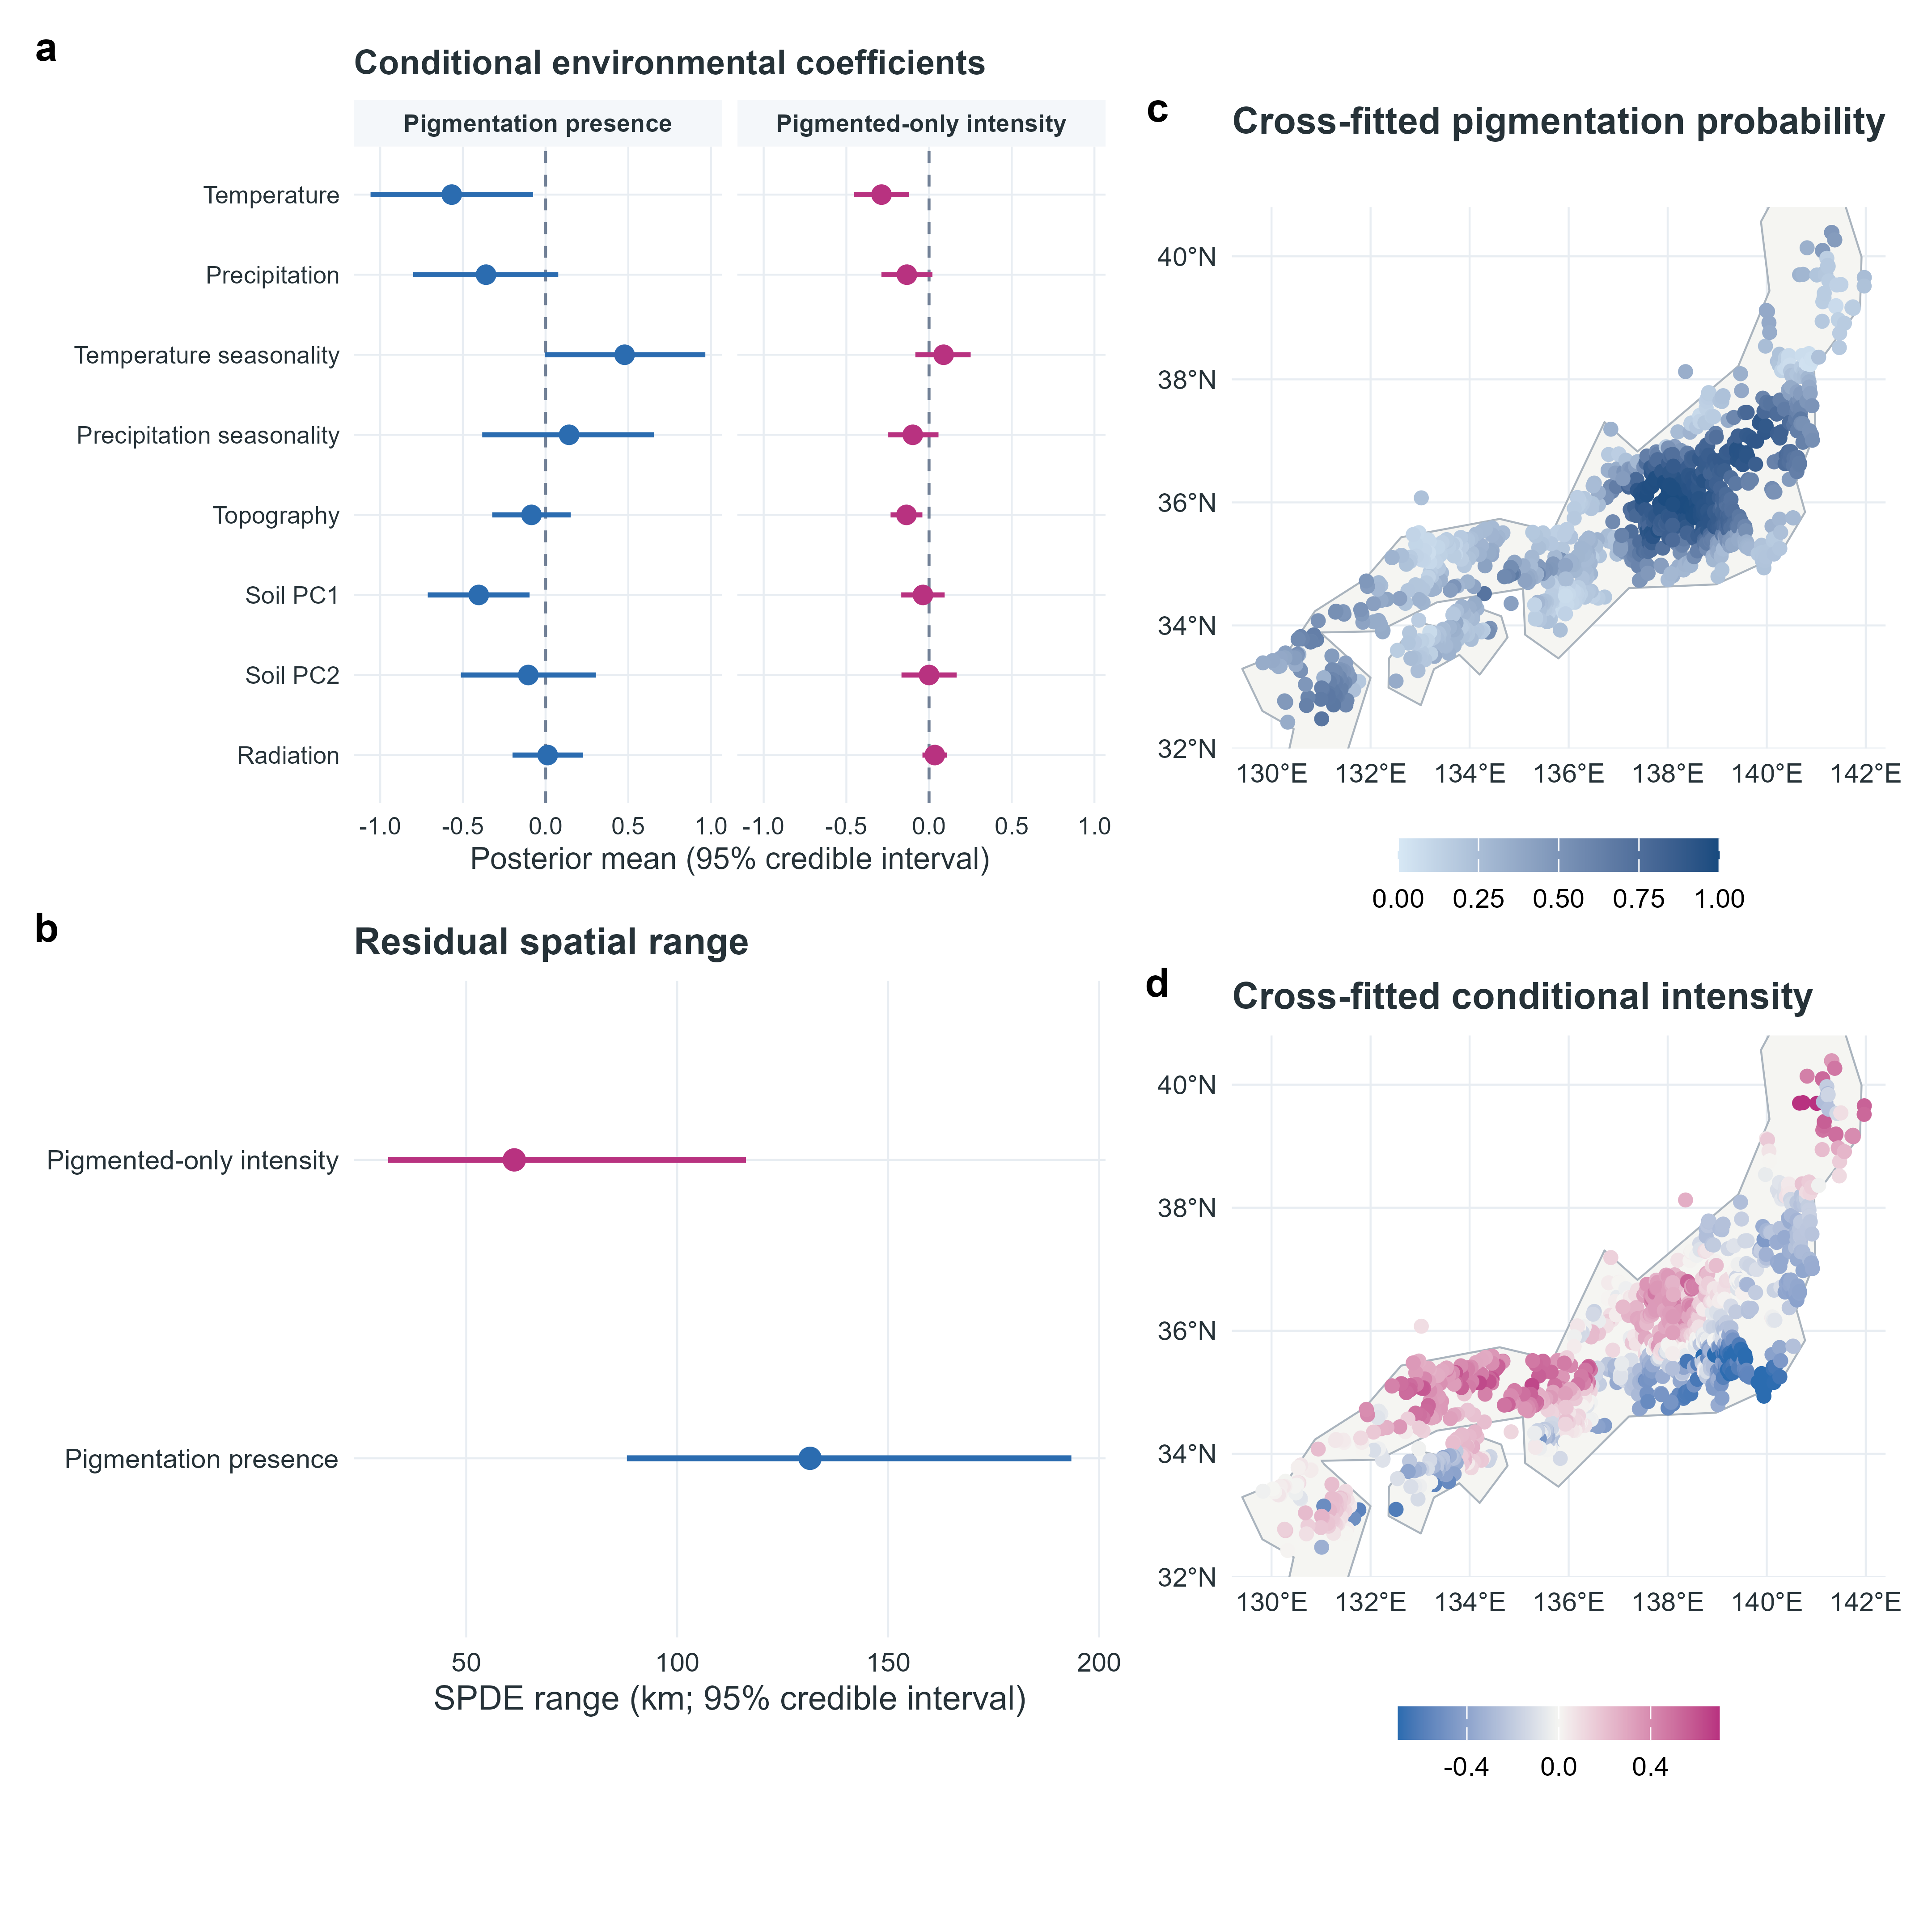
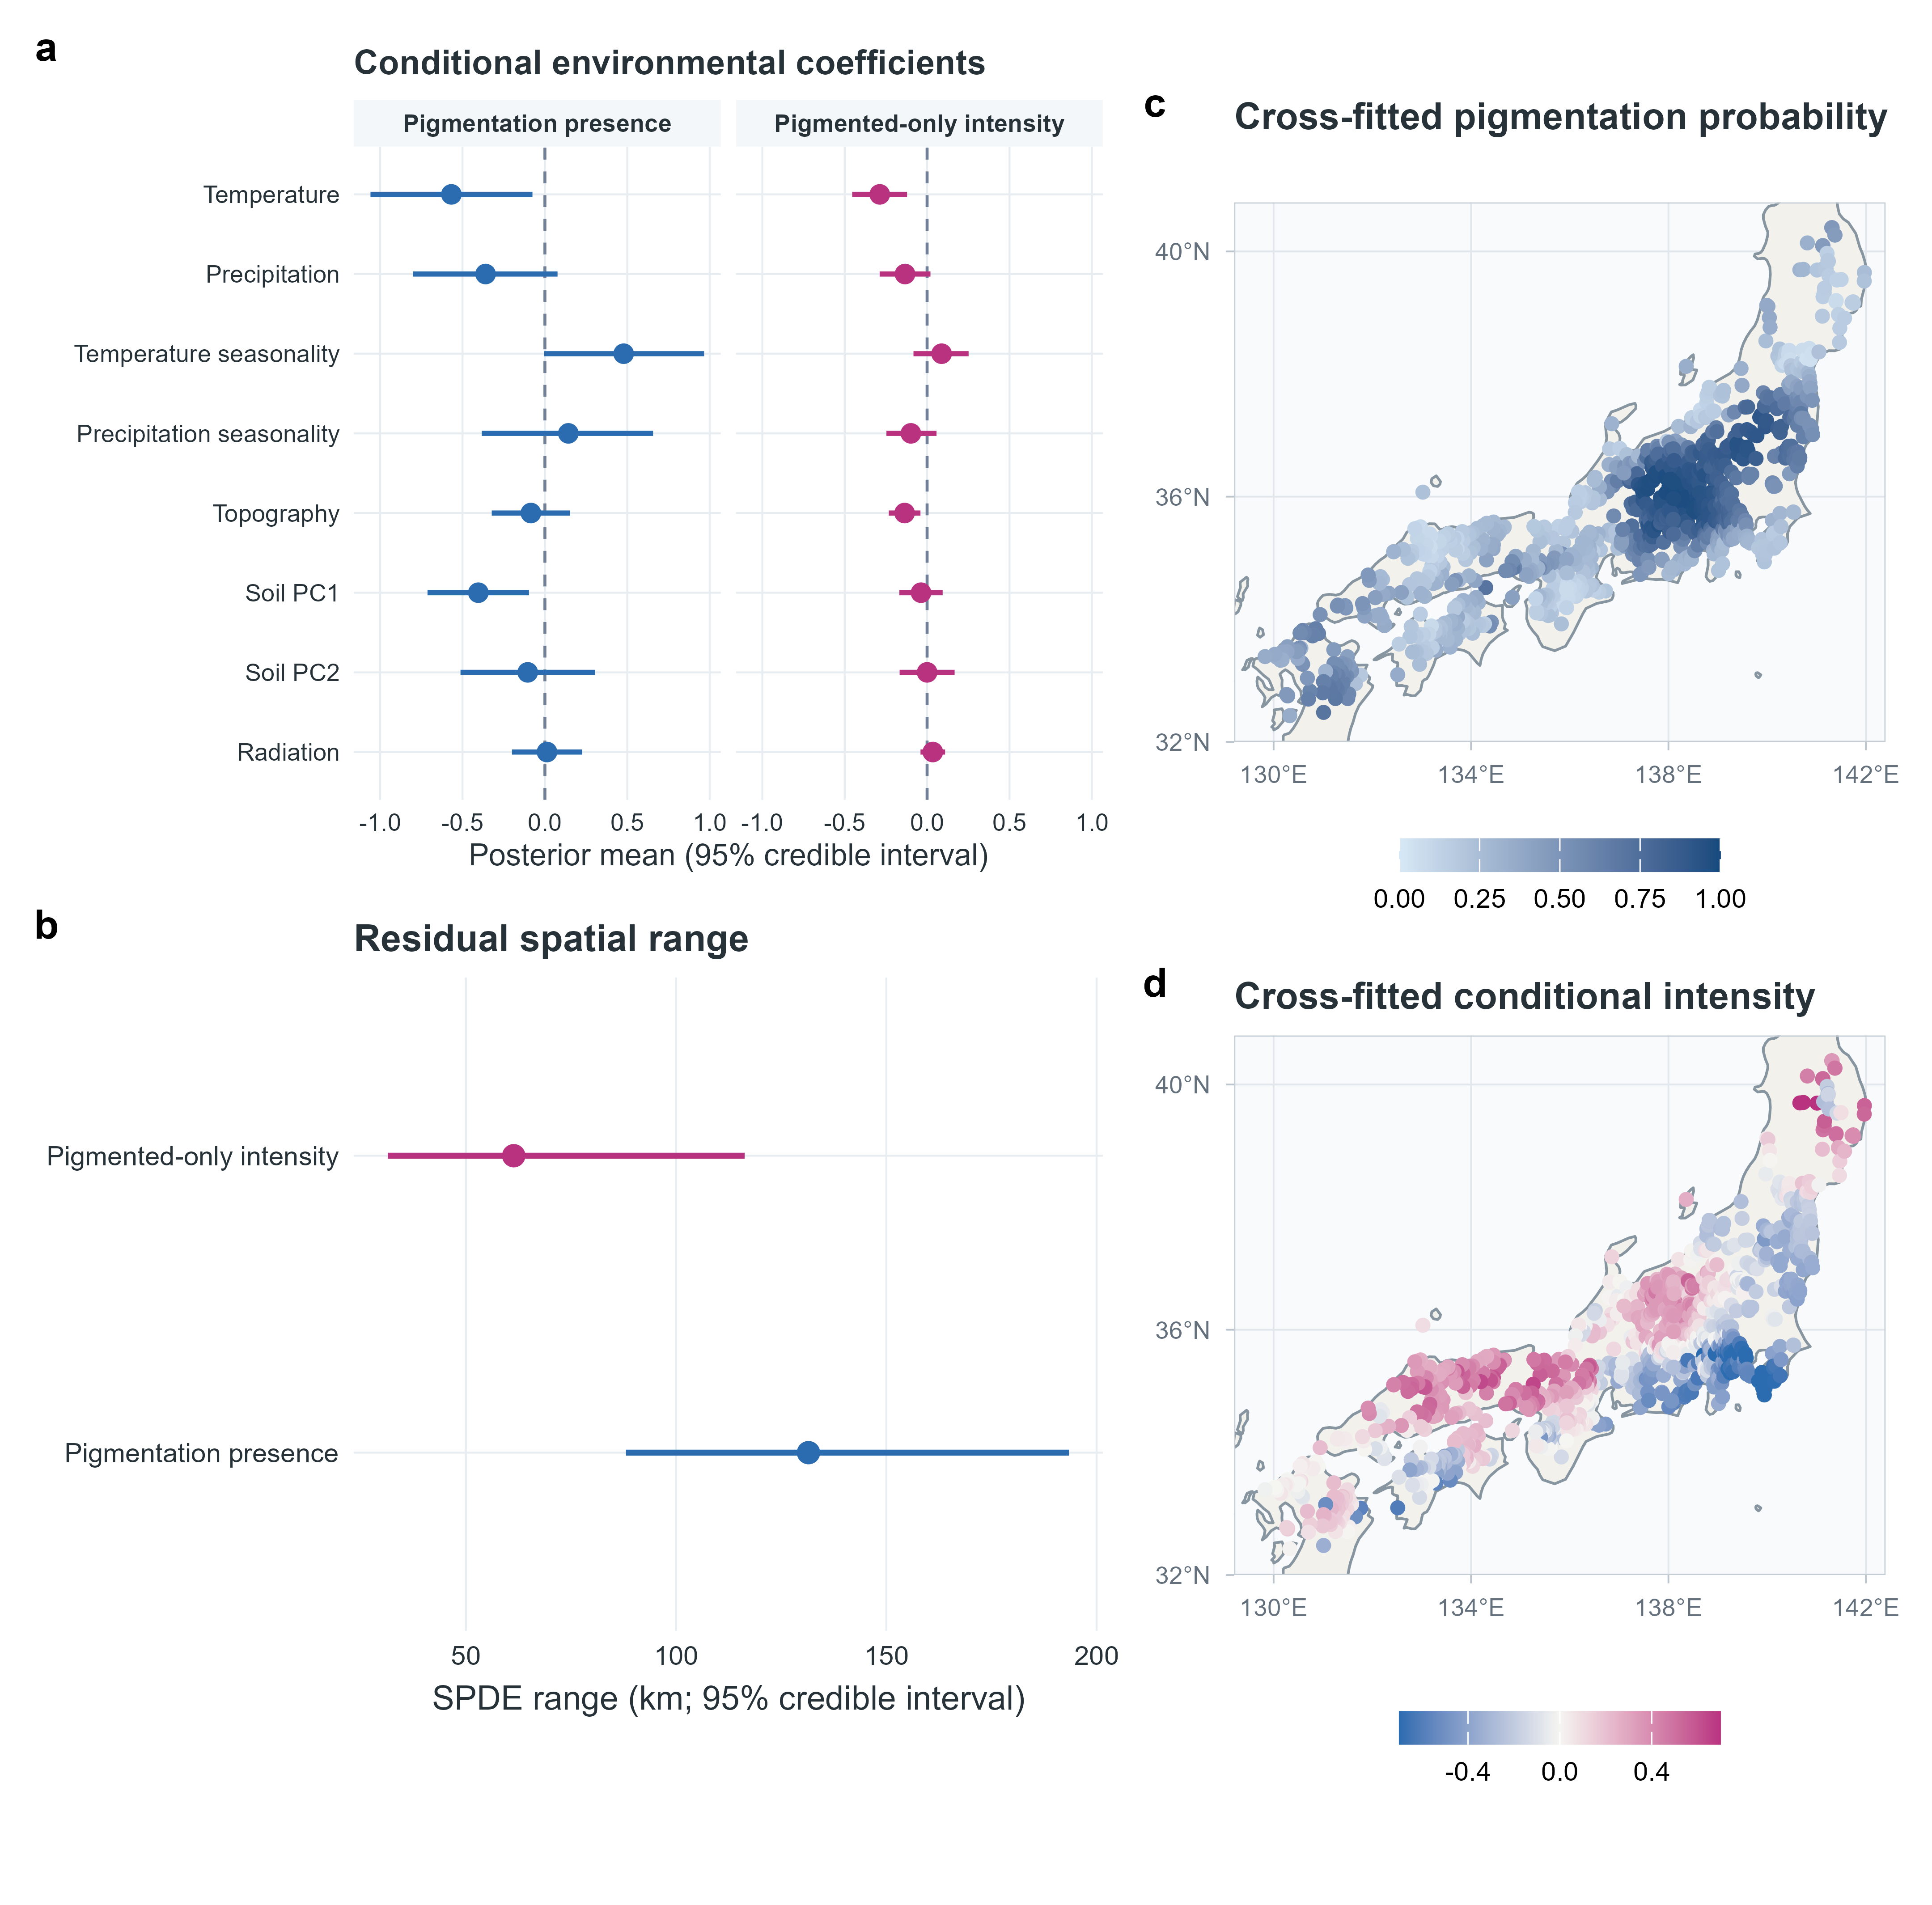
Refine Japan maps and plan supporting information

diff --git a/scripts/build_manuscript_docx.py b/scripts/build_manuscript_docx.py
@@ -30,10 +30,11 @@ FIGURE_FILES = {
 }
 FIGURE_ALT_TEXT = {
     1: (
-        "Four-panel figure showing a national map filled with each "
-        "observation's extracted median sRGB colour, the CIELAB a-star "
-        "mixture boundary, national white-like and pigmented records, and "
-        "pigmented-only conditional intensity."
+        "Four-panel figure showing three common-extent maps of Japan, "
+        "including Hokkaido: a map filled with each observation's extracted "
+        "median sRGB colour, national white-like and pigmented records, and "
+        "pigmented-only conditional intensity; the fourth panel shows the "
+        "CIELAB a-star mixture boundary."
     ),
     2: (
         "Four-panel figure showing environmental posterior coefficients, "
@@ -92,7 +93,7 @@ def add_hyperlink(paragraph, text: str, url: str):
 
 
 INLINE_TOKEN = re.compile(
-    r"(\*\*.+?\*\*|\*.+?\*|`.+?`|https?://\S+)",
+    r"(\*\*.+?\*\*|(?<!\w)\*(?!\*)[^*\n]+?\*(?!\*)|`.+?`|https?://\S+)",
     flags=re.DOTALL,
 )
 
@@ -206,6 +207,16 @@ def configure_styles(document: Document) -> None:
         style.paragraph_format.space_after = Pt(6)
         if name != "Title":
             style.paragraph_format.line_spacing_rule = WD_LINE_SPACING.SINGLE
+
+    caption = document.styles["Caption"]
+    caption.font.name = "Times New Roman"
+    caption._element.rPr.rFonts.set(qn("w:eastAsia"), "Times New Roman")
+    caption.font.size = Pt(10)
+    caption.font.bold = False
+    caption.font.italic = False
+    caption.font.color.rgb = RGBColor(0, 0, 0)
+    caption.paragraph_format.line_spacing_rule = WD_LINE_SPACING.SINGLE
+    caption.paragraph_format.space_after = Pt(6)
 
 
 def parse_table(lines: list[str]) -> list[list[str]]:

diff --git a/manuscript/supporting-information-plan.md b/manuscript/supporting-information-plan.md
@@ -1,0 +1,191 @@
+# Supporting Information plan
+
+## Submission unit
+
+Prepare one self-contained **Supporting Information S1** file containing the
+extended methods, Tables S1-S12, and Figures S1-S9 below. Number supplementary
+items independently from the main article. Publish analysis-ready derived data
+and code in the DOI-archived repository rather than duplicating the full
+machine-readable release inside the Supporting Information file.
+
+The Supplement should support audit and sensitivity assessment. It should not
+carry stronger biological claims than the main text. In particular, predicted
+*Bombus* suitability is not abundance or visitation, and the human-context
+analyses do not establish horticultural origin, escape, introgression, or
+genetic contamination.
+
+## Extended Methods
+
+### Appendix S1 | YAMAP sampling frame and manual screening
+
+- State that the frame was all eligible YAMAP hiking-activity records from
+  1 June through 31 August in 2023, 2024, and 2025.
+- Document manual confirmation of the extracted subject and petal region,
+  duplicate-individual removal, and taxonomic-error removal, including
+  *Adenophora triphylla* records misidentified as *Campanula punctata*.
+- Explain that the retained occurrences are route-linked hiking observations,
+  not an areally balanced vegetation survey.
+- Do not reconstruct exclusion counts that were not retained.
+
+### Appendix S2 | Supervised colour extraction and optical phenotype
+
+- Give the deterministic image-decoding, alpha/HSV candidate-pixel, channel-
+  wise median RGB, and D65 CIELAB conversion steps.
+- State that author-confirmed dark observations and warning-flagged cases were
+  retained in the primary data; only non-formable measurements and exact image
+  duplicates were programmatic exclusions.
+- Describe the response-blind Gaussian-mixture boundary, classification
+  confidence flag, and the two-part response: pigmentation presence for all
+  observations and standardized a* only among pigmented observations.
+- Reiterate that white-flower a* was not analysed as pigment quantity and that
+  uncalibrated sRGB is neither anthocyanin concentration nor pollinator colour
+  contrast.
+
+### Appendix S3 | Public rasters and scale decomposition
+
+- Give source URL, provider/version, native resolution, download date, checksum,
+  resampling rule, common grid, and derived variable for every CHELSA,
+  SoilGrids, WorldClim, WorldPop, and MLIT layer.
+- Document the response-blind environmental principal components and fixed
+  axis signs.
+- Show how 50-km broad-scale means and cell-minus-neighbourhood deviations were
+  calculated; retain 25- and 100-km decompositions as fixed sensitivities.
+
+### Appendix S4 | National INLA-SPDE models and predictive replication
+
+- Give formulas, likelihoods, links, predictor scaling, mesh construction,
+  penalised-complexity priors, and zero-mean field constraint.
+- Document five 100-km geographic folds, foldwise standardization, held-out
+  predictions, 1,000 outcome replications, and recombination into the
+  cross-fitted national mosaics.
+- Explain why fixed environmental coefficients are conditional on the spatial
+  field and why the SPDE field is unresolved continuous geography rather than
+  disposable noise.
+
+### Appendix S5 | ENMeval and the predicted *Bombus* fingerprint
+
+- Give GBIF filtering, coordinate-uncertainty limit, cleaning, deduplication,
+  background definition, spatial partitions, feature-class and regularization
+  grid, and finite-AICc selection for each of the five species.
+- Explicitly state that the final pipeline generated predictions from the
+  selected ENMeval models and did not use pre-existing *Bombus* TIFF files.
+- Document within-species rank standardization, Hellinger composition,
+  principal components, common support, foldwise environmental
+  orthogonalization, and same-support national model comparison.
+- Treat suitability axes as a predicted community fingerprint, not abundance,
+  richness, visitation, or pollination effectiveness.
+
+### Appendix S6 | Local turnover, natural-map events, and human context
+
+- Give the fixed nearest-neighbour graph construction at 25 km and the fixed
+  10- and 50-km sensitivity radii.
+- Define both flower-colour turnover responses, fingerprint turnover,
+  environmental/natural-map adjustment, shared-node handling, and one-sided
+  Monte Carlo reference tests.
+- Define the 10-km environment-similar all-white-neighbour pigmented-isolate
+  event and show that the identical extractor was replayed on every natural
+  predictive map.
+- Describe the post-selection WorldPop, land-use, DID, early-flowering, and
+  dark-colour contrasts and their maxT families.
+
+## Supplementary Tables
+
+| Item | Content | Locked source |
+|---|---|---|
+| Table S1 | Observation counts by year, retained provenance status, and final analytical exclusions | `Data_S1.csv`; phenotype audit |
+| Table S2 | Observation-level data dictionary, units, allowed values, QC flags, and release restrictions | `Data_S1.csv`; `docs/data-dictionary.md` if created |
+| Table S3 | Complete public-data provenance, native and analysis resolution, preprocessing, and checksum | `docs/data-sources/public-environment-sources.md`; stage metadata |
+| Table S4 | Mixture components, a* boundary, ambiguous-class count, warning-free and rule-sensitivity results | `pigmentation_mixture_components.csv`; `pigmentation_classification_sensitivity.csv`; rule-sensitivity outputs |
+| Table S5 | Correlation matrix summary, VIFs, condition indices, and retained predictor rationale | `pigmentation_hurdle_collinearity_*.csv` |
+| Table S6 | INLA formulas, priors, mesh settings, posterior fixed effects, and spatial hyperparameters | `pigmentation_hurdle_inla_*.csv`; natural-model metadata |
+| Table S7 | Foldwise predictive performance, calibration, and predictive coverage for both response parts | `predictive_replication_model_fold_performance.csv`; `predictive_replication_presence_calibration.csv` |
+| Table S8 | Five-species GBIF counts, ENMeval tuning grid, selected feature class and regularization, AICc, and spatial evaluation | `ENMeval_AICc_selection.csv`; ENMeval reports and query metadata |
+| Table S9 | Fingerprint-axis definitions, inter-axis correlations, environmental orthogonalization diagnostics, and same-support national contrasts | `predictive_replication_fingerprint_orthogonalization.csv`; paired contrasts |
+| Table S10 | Local-pair support and presence/intensity turnover statistics at 10, 25, and 50 km, including pair counts, null replicates, raw p, and BH q | `local_pair_predictive_summary.csv`; `local_pair_predictive_null.csv`; metadata |
+| Table S11 | Isolate-definition settings, candidate list, graph support, count/fraction predictive checks, and rank sensitivity | `local_isolate_*.csv`; predictive-replication candidate sensitivity |
+| Table S12 | Population-scale, land-use, DID, early-flowering, and dark-colour contrasts with raw and maxT-adjusted probabilities | `human_neighbourhood_*.csv`; `did_*.csv`; auxiliary-facet summaries |
+
+## Supplementary Figures
+
+### Figure S1 | Sampling and measurement audit
+
+Show annual retained counts, the manual-to-script measurement workflow, the
+distribution of mask/QC flags, and the final duplicate exclusions. Do not show
+or redistribute original YAMAP photographs without confirmed permission.
+
+### Figure S2 | Optical classification robustness
+
+Show fitted mixture-component densities, posterior class confidence, and the
+number of records whose class changes across the pre-specified boundary and
+warning-free sensitivities. The main Figure 1 histogram need not be repeated.
+
+### Figure S3 | Predictor collinearity and scale structure
+
+Combine a labelled correlation heatmap, VIF/condition diagnostics, and the
+loadings of broad-scale and within-neighbourhood environmental axes. This is
+the direct reviewer-facing check that biologically interesting predictors were
+not removed merely because they share environment or geography.
+
+### Figure S4 | Spatial design
+
+Map the INLA mesh, observation support, and five 100-km geographic folds in a
+common WGS84 frame. Add a small panel showing train/test counts per fold.
+
+### Figure S5 | National predictive diagnostics
+
+Show foldwise presence calibration, AUC/Brier distributions, intensity
+observed-versus-predicted values, RMSE/MAE, predictive coverage, and simulation
+stability. Keep performance interpretation predictive rather than causal.
+
+### Figure S6 | ENMeval and fingerprint construction
+
+For each *Bombus* species, show the selected tuning point and a common-scale
+rank-suitability map. Add fingerprint-axis distributions and a correlation
+panel. Do not present summed suitability as abundance or species richness.
+
+### Figure S7 | Local-pair design and null support
+
+Show edge-distance and environmental-difference distributions, pair counts for
+each response and radius, observed partial statistics against natural-map null
+distributions, and fixed 10/25/50-km sensitivity. This figure explains why the
+local test is a change-to-change comparison rather than a national species
+co-occurrence regression.
+
+### Figure S8 | Isolate-event stability
+
+Show how candidate count, fraction, and membership change across fixed
+neighbour-distance, environmental-similarity, support, and extremeness
+settings. Overlay the observed primary event on its 1,000-map predictive
+reference distribution.
+
+### Figure S9 | Post-selection human-context sensitivity
+
+Show population contrasts at 5, 10, 25, and 50 km, land-use feature families,
+DID distance/alignment, raw and maxT probabilities, and the early/dark
+candidate facets. Visually separate selection-free candidate definition from
+post-selection characterization.
+
+## Repository files accompanying Supporting Information S1
+
+- **Data S1:** `Data_S1.csv`, the curated observation-level derived
+  measurement table, subject to the final coordinate/source-identifier release
+  decision.
+- **Derived cell and edge data:** release the exact 1-km cell, local-pair, and
+  candidate tables used for the paper in the DOI archive.
+- **Code:** release the complete publication pipeline, environment lock,
+  seeds, input/prediction hashes, validation scripts, and figure builders.
+  `Code_S1.py` may remain a named georeferencing utility, but the repository
+  archive is the authoritative executable record.
+- **Excluded material:** do not redistribute original YAMAP photographs
+  automatically; document access, permission, and audit-hash policy instead.
+
+## Main-text cross-references to add when the Supplement is built
+
+- Methods 2.1-2.3: Appendices S1-S2, Tables S1-S4, Figures S1-S2.
+- Methods 2.4-2.5: Appendices S3-S4, Tables S3 and S5-S7, Figures S3-S5.
+- Methods 2.6: Appendix S5, Tables S8-S9, Figure S6.
+- Methods 2.7: Appendix S6, Table S10, Figure S7.
+- Methods 2.8: Appendix S6, Tables S11-S12, Figures S8-S9.
+
+Add these citations only after the listed items are generated and checked; do
+not cite planned supplementary items as if they already exist.

diff --git a/manuscript/submission-readiness-checklist.md b/manuscript/submission-readiness-checklist.md
@@ -32,6 +32,11 @@ beyond the information available in the project.
 - regenerate the final figures from the locked stage outputs;
 - cite every table and figure in numerical order in the main text;
 - prepare journal-compliant figure files and alt text;
+- build the independently numbered Supporting Information S1 file from
+  `manuscript/supporting-information-plan.md`, then add its cross-references to
+  the main text only after every supplementary item exists;
+- archive analysis-ready derived data and executable code in the DOI release
+  rather than relying on the Supporting Information file as the data archive;
 - check that the final title page and declarations match the submission
   system; and
 - verify the final Word or PDF rendering in Microsoft Word before upload.

diff --git a/manuscript/ecology-and-evolution-manuscript.md b/manuscript/ecology-and-evolution-manuscript.md
@@ -886,7 +886,9 @@ author-confirmed petal region; thin neutral outlines retain the visibility of
 pale points.
 (b) Distribution of CIELAB a* with the response-blind mixture boundary at
 4.9445. (c) National locations of white-like and pigmented observations.
-(d) Conditional intensity among pigmented flowers. Displayed colours are
+(d) Conditional intensity among pigmented flowers. The three maps share the
+same WGS84 extent and include Hokkaido for national geographic context.
+Displayed colours are
 uncalibrated human-visible sRGB, not anthocyanin concentration or *Bombus*
 colour contrast.
 

diff --git a/manuscript/figure-map.md b/manuscript/figure-map.md
@@ -13,6 +13,9 @@ are compared.
 - **Panels:** national observation map filled with each observation's extracted
   median sRGB value; CIELAB a* distribution and mixture boundary; national
   white-like/pigmented observations; pigmented-only conditional intensity.
+- **Geographic frame:** all three map panels use the same 129.0-146.2 degrees E
+  by 30.0-46.2 degrees N extent, a WGS84 graticule, and the medium-resolution
+  Natural Earth coastline so that Hokkaido is not cropped.
 - **Sources:** `Data_S1.csv`, `analysis_data_pigmentation_hurdle.csv`,
   `multiscale_hotspot_cells_1km.csv`, and
   `pigmentation_mixture_components.csv`.